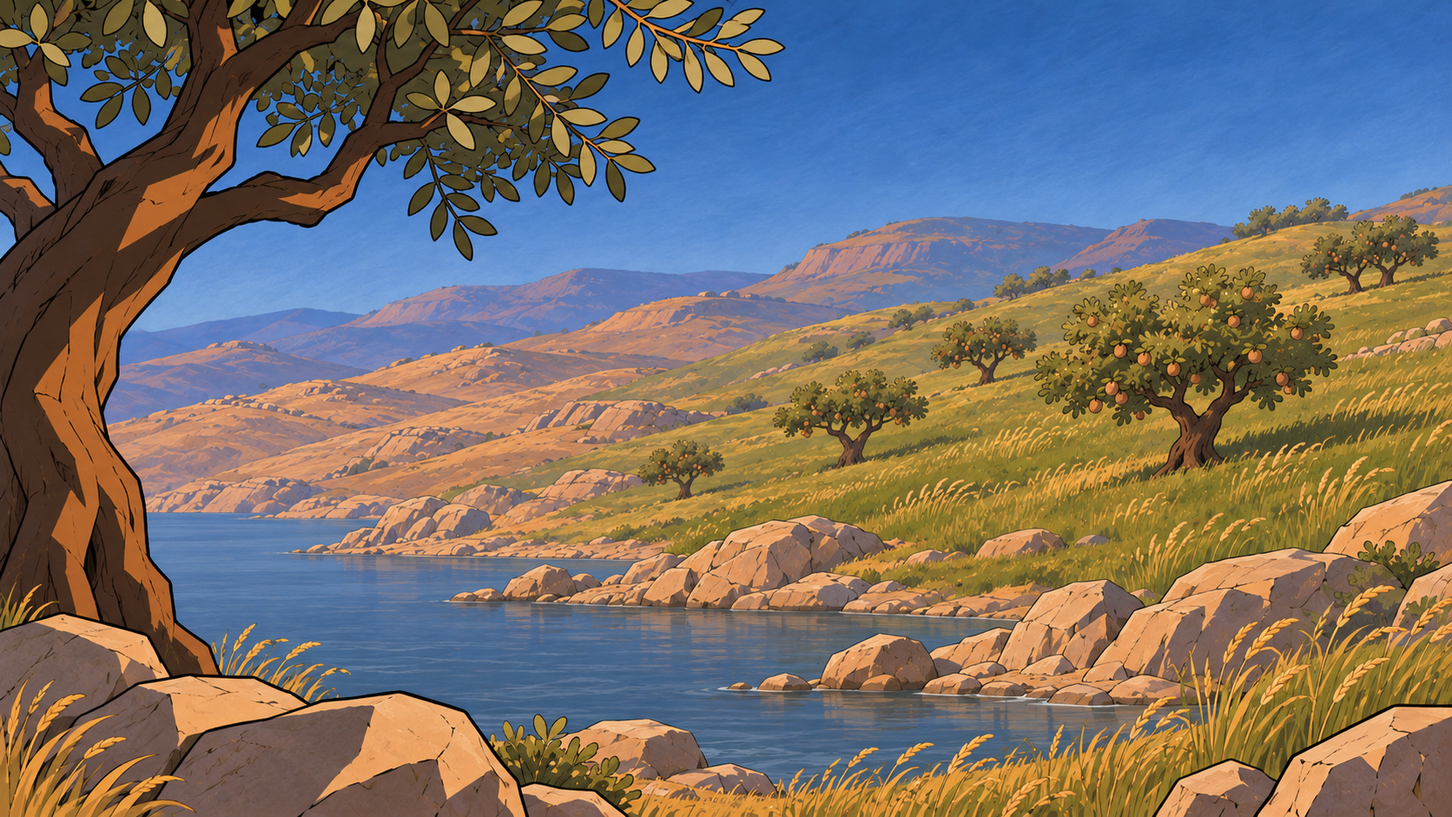
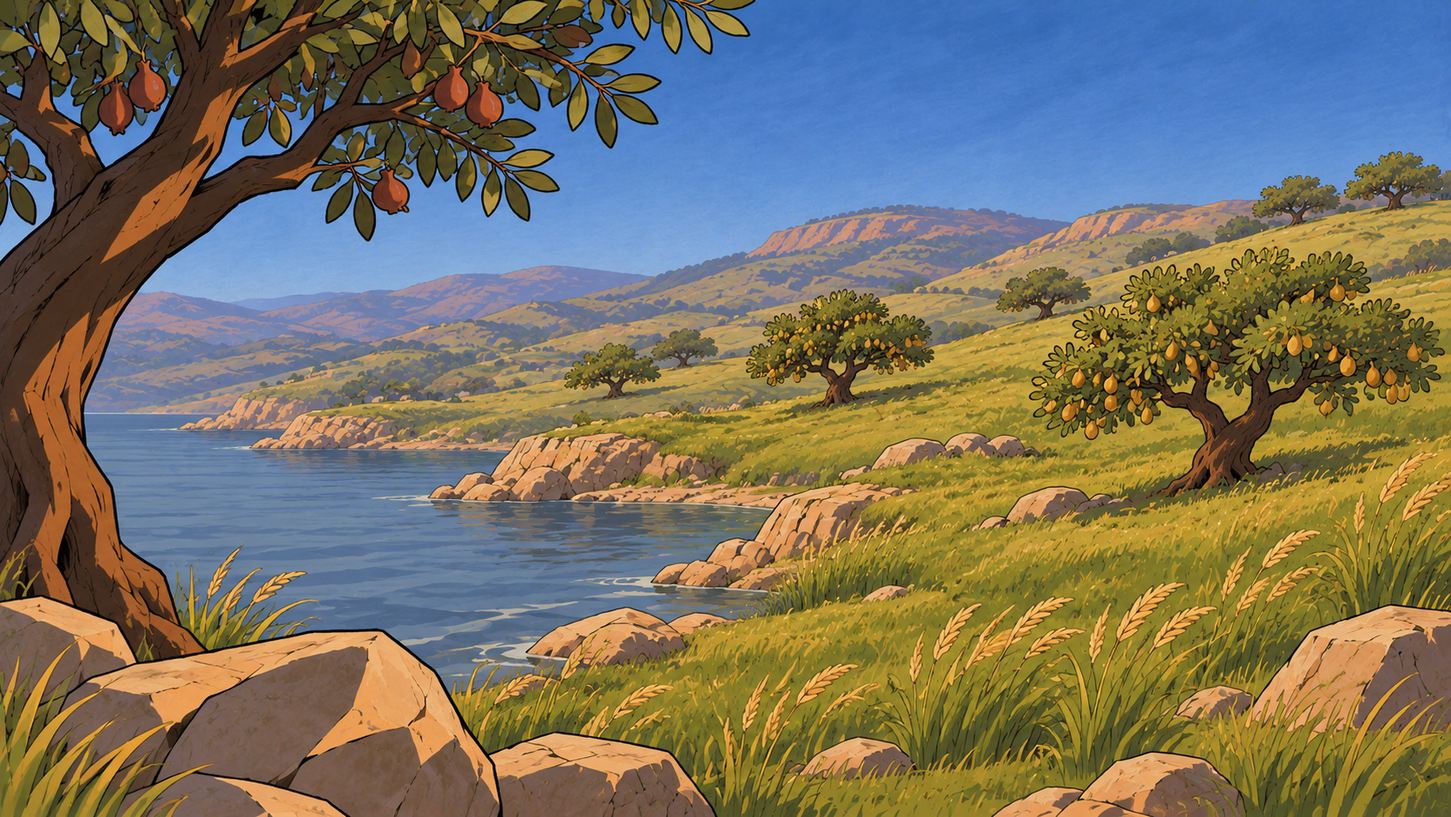
Imágenes de José, hermanos y la sala corregidas y aprobadas; las dos de la creación, rechazadas
- Prompts corregidos: José de unos 40 con lino egipcio ceñido (no toga), hermanos de
  mediana edad con canas, la sala abre al valle llano del Nilo, la creación en una sola escena.
- Regeneradas las 5 vía capa-ia desde el Estudio; las anteriores quedan en _anteriores/.
- Revisión: José, hermanos y sala aprobadas; tierra seca y lumbreras rechazadas porque
  repiten la composición de la lámina 1.
- La autoprueba de imagenes.py ya no supone que las fuentes reales siguen como el 16-nov.

diff --git a/herramientas/imagenes.py b/herramientas/imagenes.py
@@ -564,7 +564,9 @@ def autoprueba():
                   "CapaIAError (bloqueado_coste) → Resultado, para, código 3")
 
         # prompts congelados: editar una fuente no borra el prompt del 16-nov del historial (Ruling R4)
-        viejos = {f.get("id") for f in _filas_viejas()}
+        # el objetivo y la cuenta salen de lo que HOY se reconstruye: las fuentes reales ya se editaron (T5)
+        antes = list(_reconstruir(_filas_viejas()))
+        viejos = {k.split(" ", 1)[1] for k in antes}
         objetivo = next(i for i in ("personajes/jose", *sorted(viejos))
                         if i in viejos and i.startswith(("personajes/", "escenarios/")))
         carpeta, nombre = objetivo.split("/")
@@ -579,7 +581,7 @@ def autoprueba():
         comprobar(h and all(f["prompt"] is None and f["prompt_nota"] == "no se pudo reconstruir" for f in h),
                   "sin el archivo congelado ya no se podría reconstruir (lo dice)")
         n, nuevos = congelar_prompts_v1()
-        comprobar(n == len(_filas_viejas()) - len(h) and nuevos == n,
+        comprobar(n == sum(1 for k in antes if k.split(" ", 1)[1] != objetivo) and nuevos == n,
                   f"congelar_prompts_v1 en la copia: {n} congelados (el editado no)")
     finally:
         fijar_raiz(real)

diff --git a/guiones/personajes/hermanos.md b/guiones/personajes/hermanos.md
@@ -53,5 +53,5 @@ Adjuntar en ChatGPT, siempre, las tres láminas patrón de estilo (`guiones/imag
 _Hoja de referencia de grupo sobre fondo gris claro liso: diez hombres barbudos de Asia occidental en una fila, de cuerpo entero. Hermanos de unos cuarenta a cuarenta y seis años, pastores de Canaán con ropa de viaje gastada; piel morena oliva, pelo oscuro abundante, barbas oscuras; túnicas hasta la rodilla y mantos de lana con franjas y dibujos de colores al modo de los asiáticos de las tumbas egipcias del Reino Medio; sandalias. El mayor (Rubén), a la izquierda, con canas en la barba; el del centro delante (Judá), alto y firme, con manto rojizo; los otros ocho con caras, estaturas y complexiones distintas._ Evitar: _Que no sean idénticos; sin lino blanco egipcio, armaduras ni turbantes; fondo liso._
 
 ```text
-Create a frame from a 2D hand-drawn animated feature film, in a wide 16:9 frame and one consistent house style: clean, bold dark outlines; flat colors with crisp hard-edged cel shadows in one or two tones; simplified, slightly angular faces with strong jawlines, defined brows and expressive eyes; athletic but believable adult proportions. The backgrounds are softly painted, with more texture and atmosphere than the characters. Use a muted earthy palette of ochre, sand, olive, terracotta and deep blue, with natural light only: daylight, dusk or the glow of oil lamps. Base the people, their dress and the architecture on records of the ancient Near East, and keep the composition clear and readable. Match the line work, shading and palette of the attached style reference panels exactly. Make a group reference sheet on a plain light grey background, showing ten bearded men from western Asia standing in a single row, each one fully visible from head to feet. They are brothers between about forty and forty-six years old, herdsmen from Canaan in worn travelling clothes. They have olive-brown skin, dark thick hair and pointed or trimmed dark beards, and they wear knee-length wool tunics and wrapped cloaks woven with colored stripes and simple patterns, in the style of the western Asian visitors painted in Middle Kingdom Egyptian tombs, with leather sandals. The oldest, at the far left, has grey in his beard. The man in the center front is tall and steady and wears a reddish cloak. The other eight have clearly different faces, heights and builds. Do not use photographic realism, 3D or CGI rendering, oil-paint or watercolor texture on the characters, anime or manga features, or chibi or cartoonish caricature. Do not add superhero costumes, capes, masks, emblems or exaggerated muscles. Avoid the look of a glossy video game or a Hollywood blockbuster. Do not add lens flares, neon, halos, glowing auras or wings. Do not include modern clothing or objects, medieval or Renaissance European costume, Roman armor or fantasy costume. Do not write any text, captions, speech balloons, panel borders, watermarks or logos. Show no blood or graphic violence and no heavy makeup. Do not make the men identical. Do not dress them in Egyptian white linen, armor or turbans, and keep the background plain.
+Create a frame from a 2D hand-drawn animated feature film, in a wide 16:9 frame and one consistent house style: clean, bold dark outlines; flat colors with crisp hard-edged cel shadows in one or two tones; simplified, slightly angular faces with strong jawlines, defined brows and expressive eyes; athletic but believable adult proportions. The backgrounds are softly painted, with more texture and atmosphere than the characters. Use a muted earthy palette of ochre, sand, olive, terracotta and deep blue, with natural light only: daylight, dusk or the glow of oil lamps. Base the people, their dress and the architecture on records of the ancient Near East, and keep the composition clear and readable. Match the line work, shading and palette of the attached style reference panels exactly. Make a group reference sheet on a plain light grey background, showing ten bearded men from western Asia standing in a single row, each one fully visible from head to feet. They are clearly middle-aged brothers between about forty and forty-six years old, herdsmen from Canaan in worn travelling clothes, with weathered faces, lines on their foreheads and around their eyes, and streaks of grey in the hair and beards of most of them. They have olive-brown skin, dark thick hair and pointed or trimmed beards, and they wear knee-length wool tunics and wrapped cloaks woven with colored stripes and simple patterns, in the style of the western Asian visitors painted in Middle Kingdom Egyptian tombs, with leather sandals. The oldest, at the far left, has a beard that is mostly grey. The man in the center front is tall and steady and wears a reddish cloak. The other eight have clearly different faces, heights and builds. Do not use photographic realism, 3D or CGI rendering, oil-paint or watercolor texture on the characters, anime or manga features, or chibi or cartoonish caricature. Do not add superhero costumes, capes, masks, emblems or exaggerated muscles. Avoid the look of a glossy video game or a Hollywood blockbuster. Do not add lens flares, neon, halos, glowing auras or wings. Do not include modern clothing or objects, medieval or Renaissance European costume, Roman armor or fantasy costume. Do not write any text, captions, speech balloons, panel borders, watermarks or logos. Show no blood or graphic violence and no heavy makeup. Do not make any of them look young or under thirty-five. Do not make the men identical. Do not dress them in Egyptian white linen, armor or turbans, and keep the background plain.
 ```

diff --git a/guiones/personajes/jose.md b/guiones/personajes/jose.md
@@ -57,5 +57,5 @@ Adjuntar en ChatGPT, siempre, las tres láminas patrón de estilo (`guiones/imag
 _Hoja de referencia sobre fondo gris claro liso: el mismo hombre tres veces (rostro y hombros de frente, tres cuartos, cuerpo entero). Hombre de unos 39 años de Asia occidental, alto funcionario en el antiguo Egipto; rostro sereno, inteligente y amable, piel morena oliva, ojos oscuros, pelo corto oscuro, afeitado; vestido largo de lino blanco fino, collar ancho de cuentas de oro, anillo de sello en la mano derecha, sandalias de cuero._ Evitar: _Sin corona, sin tocado rayado de faraón, sin cobra real, sin barba ni túnica de colores; ninguna joya aparte del collar y el anillo; fondo liso._
 
 ```text
-Create a frame from a 2D hand-drawn animated feature film, in a wide 16:9 frame and one consistent house style: clean, bold dark outlines; flat colors with crisp hard-edged cel shadows in one or two tones; simplified, slightly angular faces with strong jawlines, defined brows and expressive eyes; athletic but believable adult proportions. The backgrounds are softly painted, with more texture and atmosphere than the characters. Use a muted earthy palette of ochre, sand, olive, terracotta and deep blue, with natural light only: daylight, dusk or the glow of oil lamps. Base the people, their dress and the architecture on records of the ancient Near East, and keep the composition clear and readable. Match the line work, shading and palette of the attached style reference panels exactly. Make a character reference sheet on a plain light grey background, showing the same man three times side by side: a front view of the face and shoulders, a three-quarter view, and a full-body view. He is a man of about thirty-nine from western Asia who now serves as a high official in ancient Egypt. He has a calm, intelligent and kind face, olive-brown skin, dark eyes, short dark hair and a clean-shaven face. He wears a long garment of fine white linen, a broad collar of gold beads around his neck, and a signet ring on his right hand. He stands upright in simple leather sandals with a composed, dignified posture. Do not use photographic realism, 3D or CGI rendering, oil-paint or watercolor texture on the characters, anime or manga features, or chibi or cartoonish caricature. Do not add superhero costumes, capes, masks, emblems or exaggerated muscles. Avoid the look of a glossy video game or a Hollywood blockbuster. Do not add lens flares, neon, halos, glowing auras or wings. Do not include modern clothing or objects, medieval or Renaissance European costume, Roman armor or fantasy costume. Do not write any text, captions, speech balloons, panel borders, watermarks or logos. Show no blood or graphic violence and no heavy makeup. Do not give him a crown, a pharaoh's striped headdress, a royal cobra, a beard or a colorful striped robe. Do not add jewelry beyond the gold collar and the ring, and keep the background plain.
+Create a frame from a 2D hand-drawn animated feature film, in a wide 16:9 frame and one consistent house style: clean, bold dark outlines; flat colors with crisp hard-edged cel shadows in one or two tones; simplified, slightly angular faces with strong jawlines, defined brows and expressive eyes; athletic but believable adult proportions. The backgrounds are softly painted, with more texture and atmosphere than the characters. Use a muted earthy palette of ochre, sand, olive, terracotta and deep blue, with natural light only: daylight, dusk or the glow of oil lamps. Base the people, their dress and the architecture on records of the ancient Near East, and keep the composition clear and readable. Match the line work, shading and palette of the attached style reference panels exactly. Make a character reference sheet on a plain light grey background, showing the same man three times side by side: a front view of the face and shoulders, a three-quarter view, and a full-body view. He is a mature man of about forty from western Asia who now serves as a high official in ancient Egypt, with a settled grown face and a few fine lines at the corners of his eyes. He has a calm, intelligent and kind face, olive-brown skin, dark eyes, short dark hair and a clean-shaven face. He wears a long Egyptian garment of fine white linen that fits closely to the body, falls straight to the ankles and is tied at the waist with a linen sash, a broad collar of gold beads around his neck, and a signet ring on his right hand. He stands upright in simple leather sandals with a composed, dignified posture. Do not use photographic realism, 3D or CGI rendering, oil-paint or watercolor texture on the characters, anime or manga features, or chibi or cartoonish caricature. Do not add superhero costumes, capes, masks, emblems or exaggerated muscles. Avoid the look of a glossy video game or a Hollywood blockbuster. Do not add lens flares, neon, halos, glowing auras or wings. Do not include modern clothing or objects, medieval or Renaissance European costume, Roman armor or fantasy costume. Do not write any text, captions, speech balloons, panel borders, watermarks or logos. Show no blood or graphic violence and no heavy makeup. Do not drape the linen like a Greek or Roman toga or leave a shoulder bare, and do not make him look younger than about forty. Do not give him a crown, a pharaoh's striped headdress, a royal cobra, a beard or a colorful striped robe. Do not add jewelry beyond the gold collar and the ring, and keep the background plain.
 ```

diff --git a/guiones/escenarios/casa-jose-sala.md b/guiones/escenarios/casa-jose-sala.md
@@ -39,5 +39,5 @@ Adjuntar en ChatGPT, siempre, las tres láminas patrón de estilo (`guiones/imag
 _Vista general de una sala de recepción vacía en la casa de un alto funcionario del antiguo Egipto, hacia 1900 a. C.: columnas de madera pintadas como haces de papiro, techo plano con vigas pintadas, muros enlucidos con friso de color, suelo de yeso claro con esteras de junco, luz por ventanas altas con celosía, mesas bajas, taburetes y tinajas de barro; al fondo, una puerta a un pórtico soleado._ Evitar: _Sin columnas colosales de templo, estatuas gigantes, muros de palacio llenos de jeroglíficos, oro por todas partes ni pirámides por la ventana; sin personas._
 
 ```text
-Create a frame from a 2D hand-drawn animated feature film, in a wide 16:9 frame and one consistent house style: clean, bold dark outlines; flat colors with crisp hard-edged cel shadows in one or two tones; simplified, slightly angular faces with strong jawlines, defined brows and expressive eyes; athletic but believable adult proportions. The backgrounds are softly painted, with more texture and atmosphere than the characters. Use a muted earthy palette of ochre, sand, olive, terracotta and deep blue, with natural light only: daylight, dusk or the glow of oil lamps. Base the people, their dress and the architecture on records of the ancient Near East, and keep the composition clear and readable. Match the line work, shading and palette of the attached style reference panels exactly. Make an establishing view of an empty reception hall in the house of a high official in ancient Egypt, around 1900 BC. Wooden columns painted to look like bundles of papyrus stems hold up a flat ceiling with painted beams. The walls are smoothly plastered and bordered with a simple colored frieze, and the floor is pale plaster partly covered with reed mats. Daylight falls in from small high windows with wooden grilles. Low wooden tables, stools and large clay storage jars stand along the walls, and a doorway at the back opens onto a sunlit porch. Do not use photographic realism, 3D or CGI rendering, oil-paint or watercolor texture on the characters, anime or manga features, or chibi or cartoonish caricature. Do not add superhero costumes, capes, masks, emblems or exaggerated muscles. Avoid the look of a glossy video game or a Hollywood blockbuster. Do not add lens flares, neon, halos, glowing auras or wings. Do not include modern clothing or objects, medieval or Renaissance European costume, Roman armor or fantasy costume. Do not write any text, captions, speech balloons, panel borders, watermarks or logos. Show no blood or graphic violence and no heavy makeup. Do not show giant stone temple columns, colossal statues, hieroglyph-covered palace walls, gold everywhere or pyramids through the windows. There are no people in this view.
+Create a frame from a 2D hand-drawn animated feature film, in a wide 16:9 frame and one consistent house style: clean, bold dark outlines; flat colors with crisp hard-edged cel shadows in one or two tones; simplified, slightly angular faces with strong jawlines, defined brows and expressive eyes; athletic but believable adult proportions. The backgrounds are softly painted, with more texture and atmosphere than the characters. Use a muted earthy palette of ochre, sand, olive, terracotta and deep blue, with natural light only: daylight, dusk or the glow of oil lamps. Base the people, their dress and the architecture on records of the ancient Near East, and keep the composition clear and readable. Match the line work, shading and palette of the attached style reference panels exactly. Make an establishing view of an empty reception hall in the house of a high official in ancient Egypt, around 1900 BC. Wooden columns painted to look like bundles of papyrus stems hold up a flat ceiling with painted beams. The walls are smoothly plastered and bordered with a simple colored frieze, and the floor is pale plaster partly covered with reed mats. Daylight falls in from small high windows with wooden grilles. Low wooden tables, stools and large clay storage jars stand along the walls, and a doorway at the back opens onto a sunlit porch, beyond which the flat green floor of the Nile valley stretches to the horizon. Do not use photographic realism, 3D or CGI rendering, oil-paint or watercolor texture on the characters, anime or manga features, or chibi or cartoonish caricature. Do not add superhero costumes, capes, masks, emblems or exaggerated muscles. Avoid the look of a glossy video game or a Hollywood blockbuster. Do not add lens flares, neon, halos, glowing auras or wings. Do not include modern clothing or objects, medieval or Renaissance European costume, Roman armor or fantasy costume. Do not write any text, captions, speech balloons, panel borders, watermarks or logos. Show no blood or graphic violence and no heavy makeup. Do not show hills, mountains or olive trees through the doorway. Do not show giant stone temple columns, colossal statues, hieroglyph-covered palace walls, gold everywhere or pyramids through the windows. There are no people in this view.
 ```

diff --git a/guiones/escenarios/creacion-tierra-seca.md b/guiones/escenarios/creacion-tierra-seca.md
@@ -25,5 +25,5 @@ Adjuntar en ChatGPT, siempre, las tres láminas patrón de estilo (`guiones/imag
 _Tierra amplia que emerge de un mar en calma, con costas rocosas y colinas suaves, desnudas al principio; luego las mismas colinas cubiertas de hierba verde con espigas y árboles frutales dispersos; luz suave y pareja sin punto de origen visible._ Evitar: _Sin sol, luna, estrellas ni planetas; sin animales, aves, peces, personas, edificios, caminos ni campos cultivados._
 
 ```text
-Create a frame from a 2D hand-drawn animated feature film, in a wide 16:9 frame and one consistent house style: clean, bold dark outlines; flat colors with crisp hard-edged cel shadows in one or two tones; simplified, slightly angular faces with strong jawlines, defined brows and expressive eyes; athletic but believable adult proportions. The backgrounds are softly painted, with more texture and atmosphere than the characters. Use a muted earthy palette of ochre, sand, olive, terracotta and deep blue, with natural light only: daylight, dusk or the glow of oil lamps. Base the people, their dress and the architecture on records of the ancient Near East, and keep the composition clear and readable. Match the line work, shading and palette of the attached style reference panels exactly. Paint wide land rising out of a calm sea, with rocky shores and gentle hills that are bare at first. Later the same hills are covered with green grasses carrying seed heads and with scattered fruit trees. Everything is lit by a soft, even light that does not come from any visible point in the sky. Do not use photographic realism, 3D or CGI rendering, oil-paint or watercolor texture on the characters, anime or manga features, or chibi or cartoonish caricature. Do not add superhero costumes, capes, masks, emblems or exaggerated muscles. Avoid the look of a glossy video game or a Hollywood blockbuster. Do not add lens flares, neon, halos, glowing auras or wings. Do not include modern clothing or objects, medieval or Renaissance European costume, Roman armor or fantasy costume. Do not write any text, captions, speech balloons, panel borders, watermarks or logos. Show no blood or graphic violence and no heavy makeup. Do not show any sun, moon, stars or planets, and no animals, birds, fish, people, buildings, roads or fields under cultivation.
+Create a frame from a 2D hand-drawn animated feature film, in a wide 16:9 frame and one consistent house style: clean, bold dark outlines; flat colors with crisp hard-edged cel shadows in one or two tones; simplified, slightly angular faces with strong jawlines, defined brows and expressive eyes; athletic but believable adult proportions. The backgrounds are softly painted, with more texture and atmosphere than the characters. Use a muted earthy palette of ochre, sand, olive, terracotta and deep blue, with natural light only: daylight, dusk or the glow of oil lamps. Base the people, their dress and the architecture on records of the ancient Near East, and keep the composition clear and readable. Match the line work, shading and palette of the attached style reference panels exactly. Paint one single scene: wide land newly risen out of a calm sea, with rocky shores and gentle hills covered with green grasses carrying seed heads and with scattered fruit trees of no recognizable modern kind. Everything is lit by a soft, even light that does not come from any visible point in the sky. Do not use photographic realism, 3D or CGI rendering, oil-paint or watercolor texture on the characters, anime or manga features, or chibi or cartoonish caricature. Do not add superhero costumes, capes, masks, emblems or exaggerated muscles. Avoid the look of a glossy video game or a Hollywood blockbuster. Do not add lens flares, neon, halos, glowing auras or wings. Do not include modern clothing or objects, medieval or Renaissance European costume, Roman armor or fantasy costume. Do not write any text, captions, speech balloons, panel borders, watermarks or logos. Show no blood or graphic violence and no heavy makeup. Do not split the picture into panels or show two moments side by side. Do not show any sun, moon, stars or planets, and no animals, birds, fish, people, buildings, roads or fields under cultivation.
 ```

diff --git a/guiones/escenarios/creacion-lumbreras.md b/guiones/escenarios/creacion-lumbreras.md
@@ -24,5 +24,5 @@ Adjuntar en ChatGPT, siempre, las tres láminas patrón de estilo (`guiones/imag
 _La misma costa con hierba y árboles frutales junto a un mar en calma, ahora bajo un cielo con luces propias: en una versión, un sol cálido bajo en el cielo de día; en otra, una luna pálida y un campo de estrellas sobre el mar de noche._ Evitar: _Sin animales, aves, peces, personas, edificios ni figuras en el cielo; sin cometas, eclipses ni planetas con anillos._
 
 ```text
-Create a frame from a 2D hand-drawn animated feature film, in a wide 16:9 frame and one consistent house style: clean, bold dark outlines; flat colors with crisp hard-edged cel shadows in one or two tones; simplified, slightly angular faces with strong jawlines, defined brows and expressive eyes; athletic but believable adult proportions. The backgrounds are softly painted, with more texture and atmosphere than the characters. Use a muted earthy palette of ochre, sand, olive, terracotta and deep blue, with natural light only: daylight, dusk or the glow of oil lamps. Base the people, their dress and the architecture on records of the ancient Near East, and keep the composition clear and readable. Match the line work, shading and palette of the attached style reference panels exactly. Paint the same grassy coast with fruit trees beside a calm sea, now under a sky that has lights of its own. In one version a warm sun shines low in the daytime sky, and in another a pale moon and a field of stars shine over the sea at night. Do not use photographic realism, 3D or CGI rendering, oil-paint or watercolor texture on the characters, anime or manga features, or chibi or cartoonish caricature. Do not add superhero costumes, capes, masks, emblems or exaggerated muscles. Avoid the look of a glossy video game or a Hollywood blockbuster. Do not add lens flares, neon, halos, glowing auras or wings. Do not include modern clothing or objects, medieval or Renaissance European costume, Roman armor or fantasy costume. Do not write any text, captions, speech balloons, panel borders, watermarks or logos. Show no blood or graphic violence and no heavy makeup. Do not show any animals, birds, fish, people, buildings or figures in the sky, and no comets, eclipses or planets with rings.
+Create a frame from a 2D hand-drawn animated feature film, in a wide 16:9 frame and one consistent house style: clean, bold dark outlines; flat colors with crisp hard-edged cel shadows in one or two tones; simplified, slightly angular faces with strong jawlines, defined brows and expressive eyes; athletic but believable adult proportions. The backgrounds are softly painted, with more texture and atmosphere than the characters. Use a muted earthy palette of ochre, sand, olive, terracotta and deep blue, with natural light only: daylight, dusk or the glow of oil lamps. Base the people, their dress and the architecture on records of the ancient Near East, and keep the composition clear and readable. Match the line work, shading and palette of the attached style reference panels exactly. Paint one single scene of the same grassy coast with fruit trees beside a calm sea at dusk, under a sky that now has lights of its own: a warm sun sits low over the sea on one side, while a pale moon and the first stars appear in the darkening sky above. Do not use photographic realism, 3D or CGI rendering, oil-paint or watercolor texture on the characters, anime or manga features, or chibi or cartoonish caricature. Do not add superhero costumes, capes, masks, emblems or exaggerated muscles. Avoid the look of a glossy video game or a Hollywood blockbuster. Do not add lens flares, neon, halos, glowing auras or wings. Do not include modern clothing or objects, medieval or Renaissance European costume, Roman armor or fantasy costume. Do not write any text, captions, speech balloons, panel borders, watermarks or logos. Show no blood or graphic violence and no heavy makeup. Do not split the picture into panels or show day and night side by side. Do not show any animals, birds, fish, people, buildings or figures in the sky, and no comets, eclipses or planets with rings.
 ```
